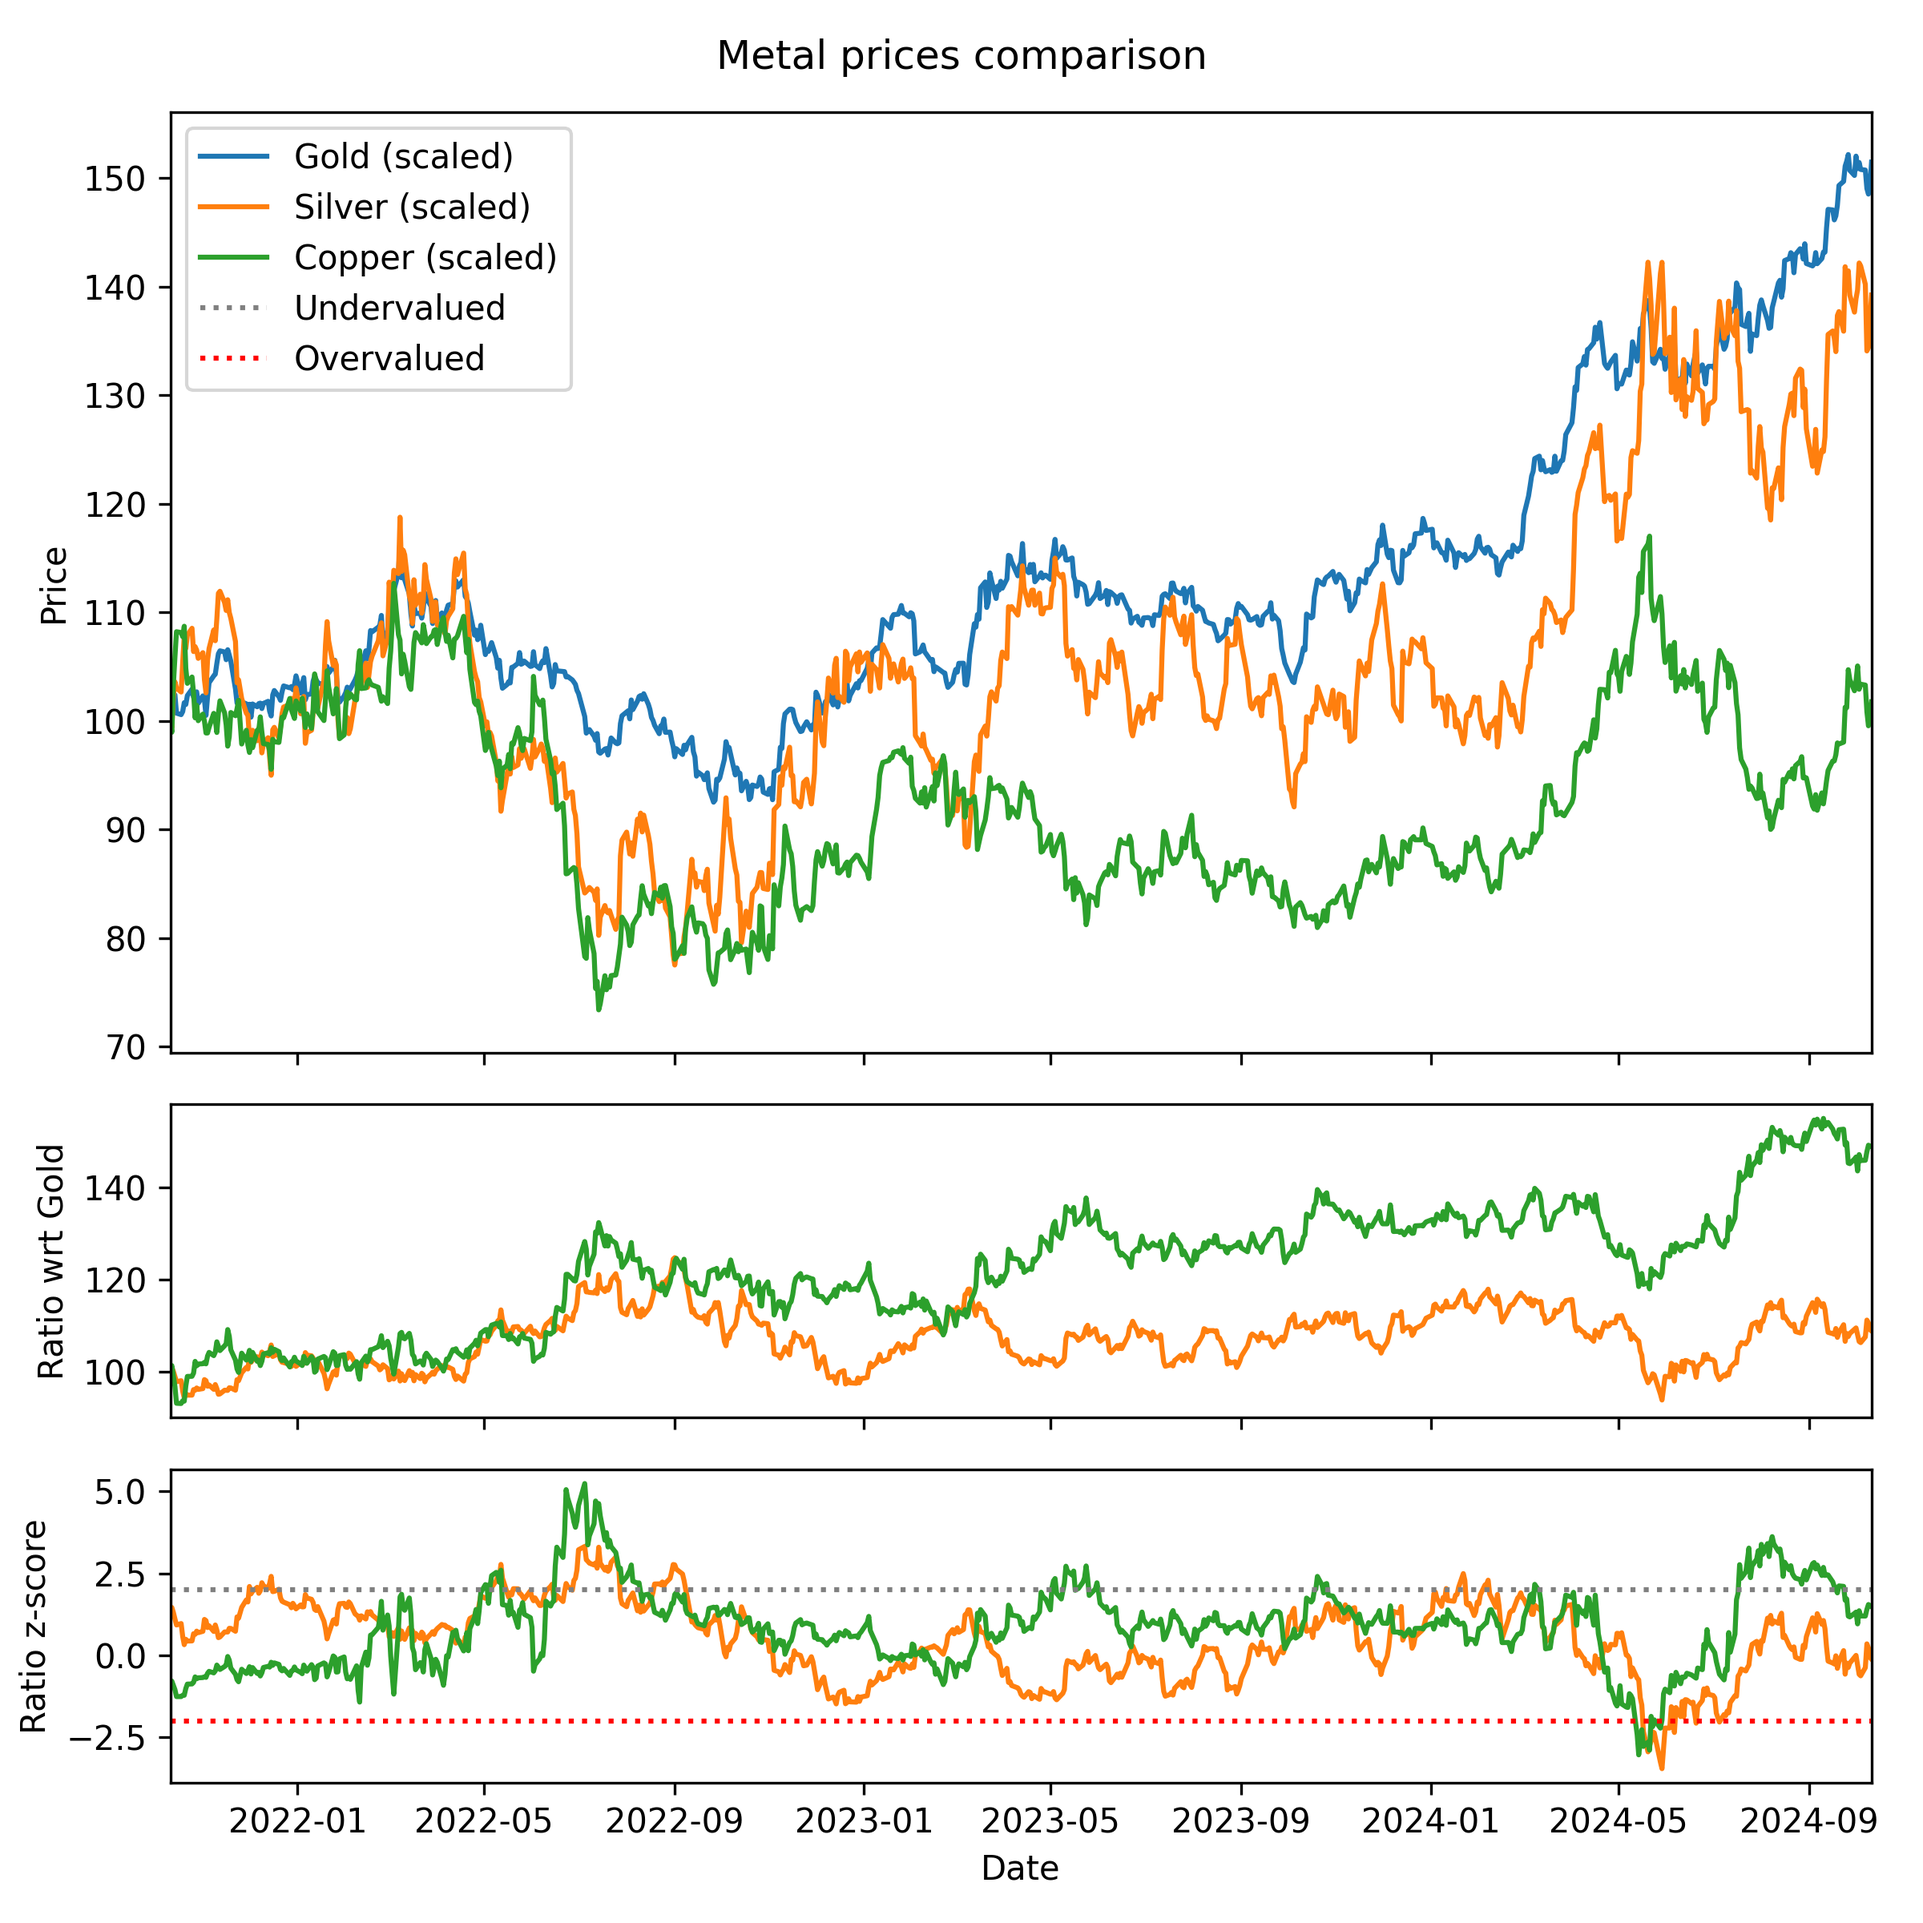
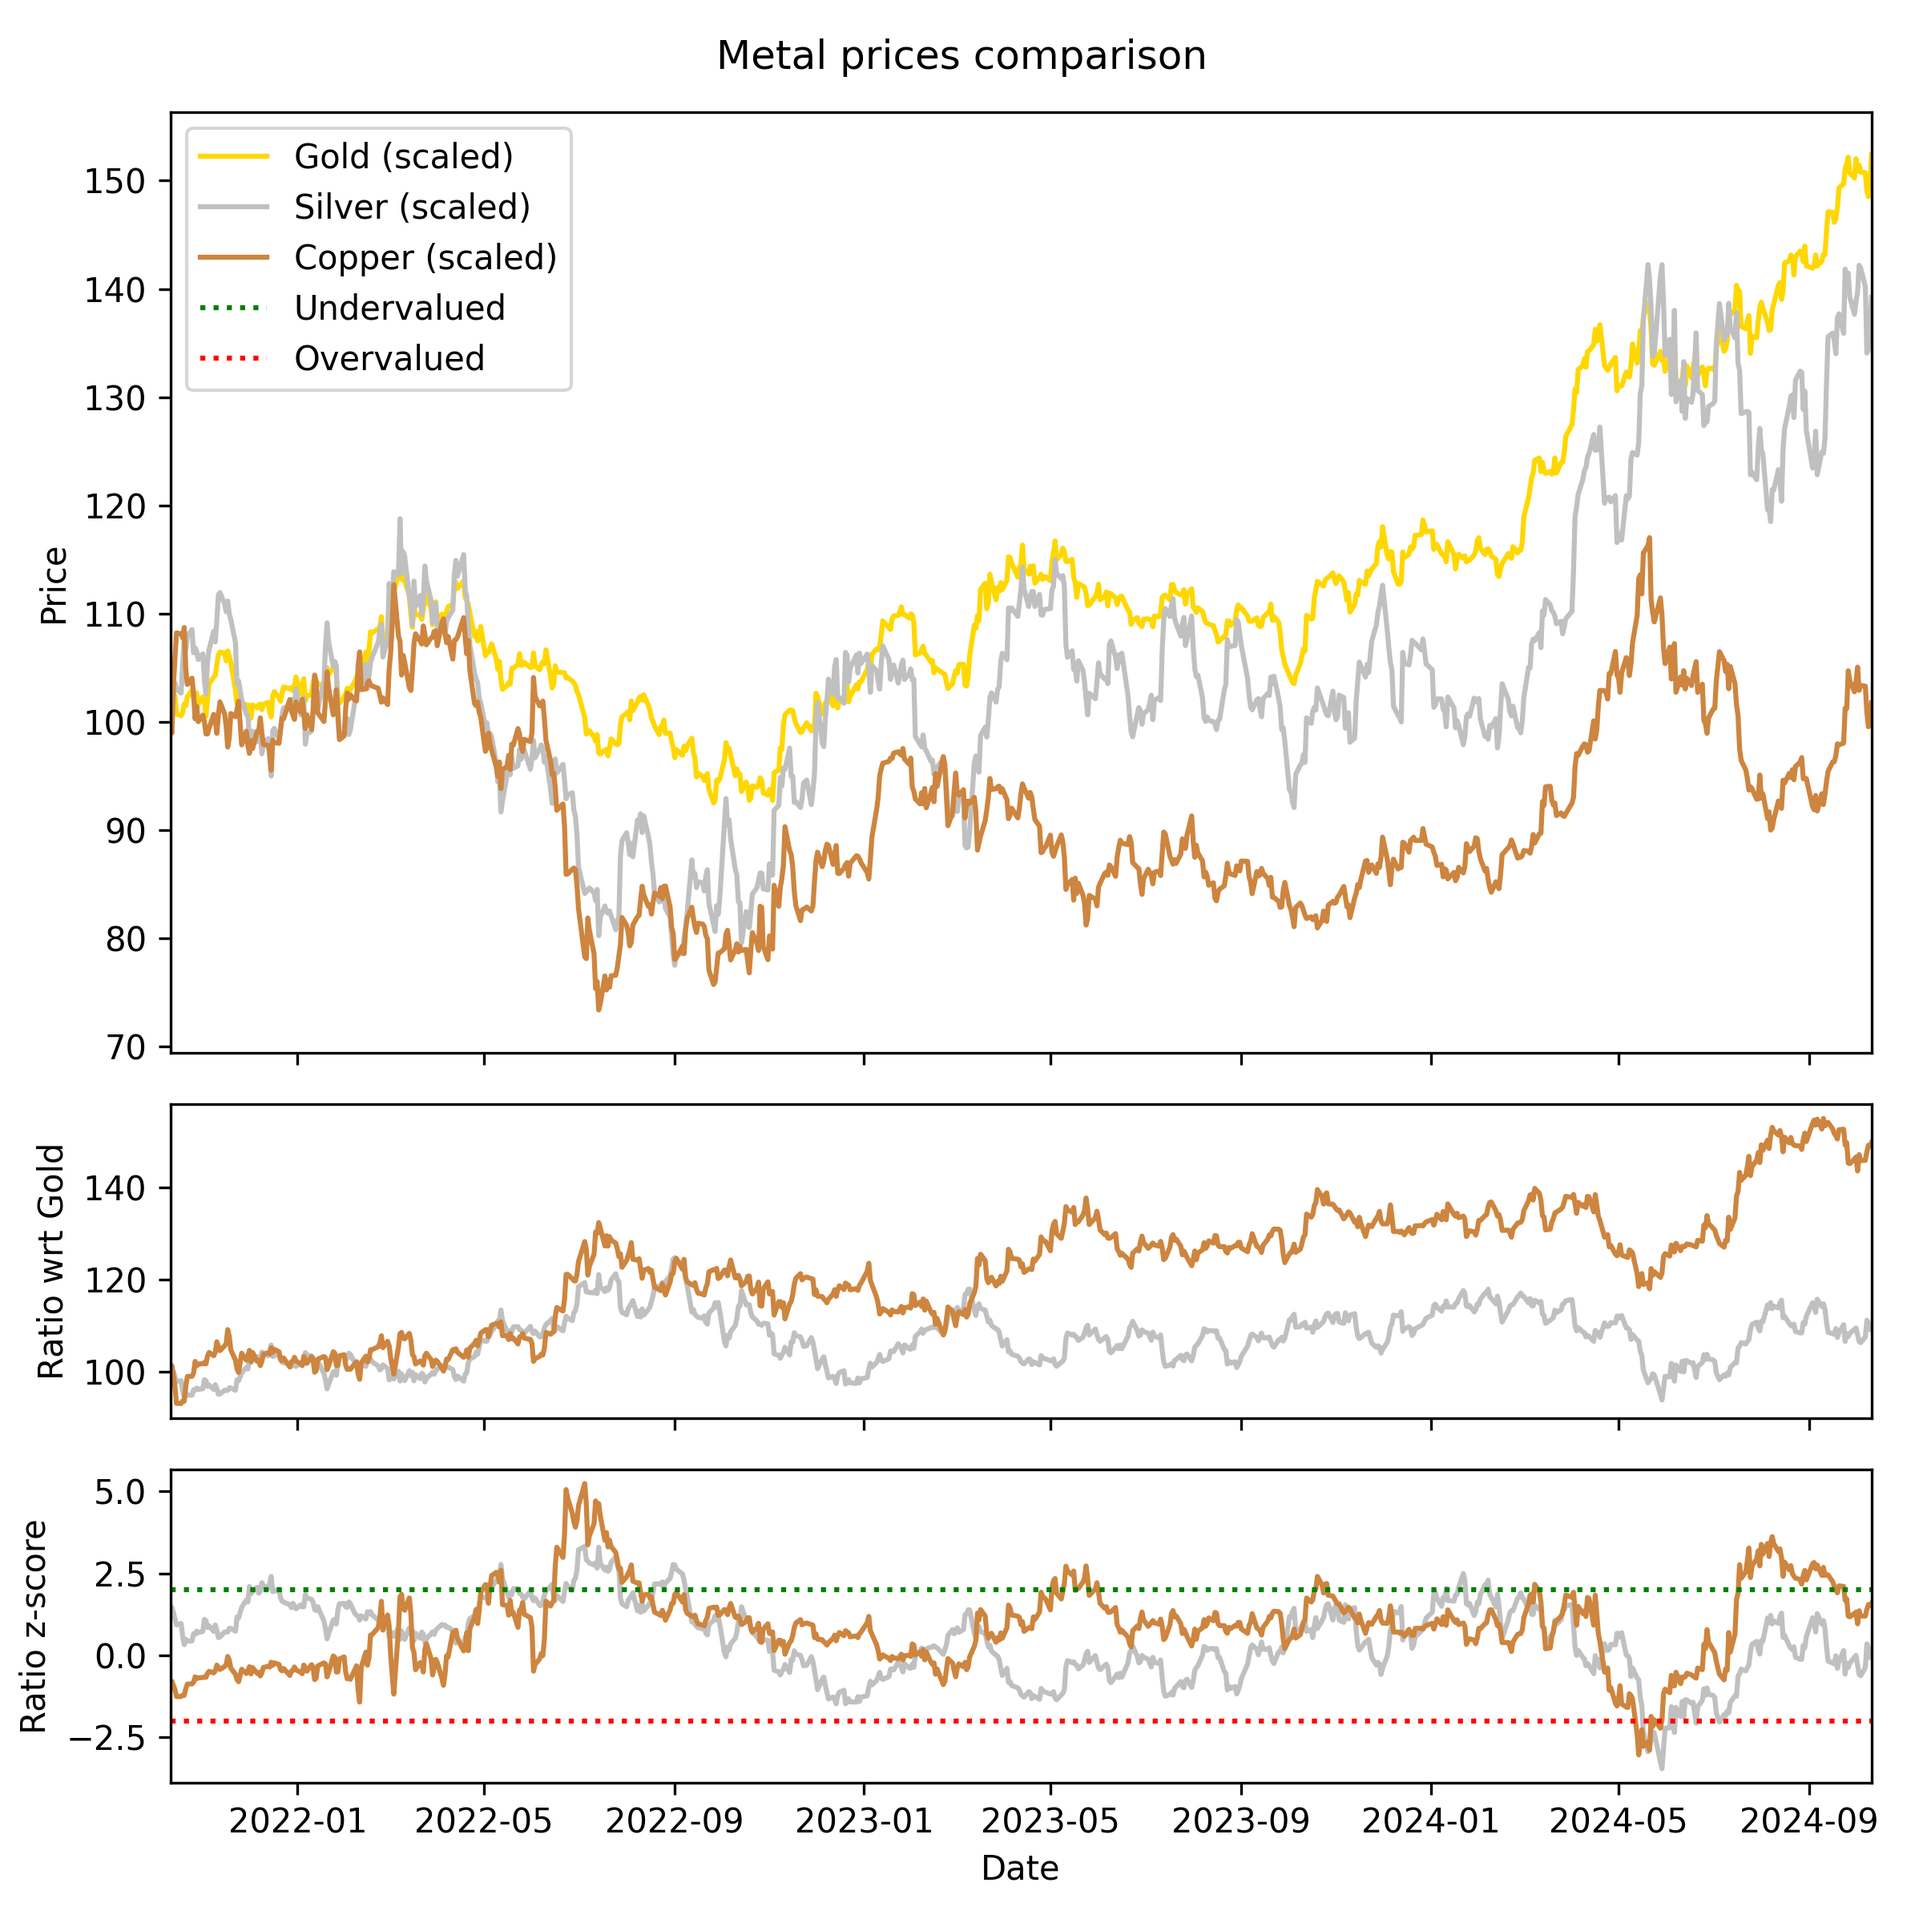
metal colour

diff --git a/Program/test_stock.py b/Program/test_stock.py
@@ -54,9 +54,9 @@ if compare_metal:
     close_goldfirst = metal_df["Close (GC=F)"].iloc[0]
     close_silverfirst = metal_df["Close (SI=F)"].iloc[0]
     close_copperfirst = metal_df["Close (HG=F)"].iloc[0]
-    ax1.plot(100 / close_goldfirst * metal_df["Close (GC=F)"], label="Gold (scaled)")
-    ax1.plot(100 / close_silverfirst * metal_df["Close (SI=F)"], label="Silver (scaled)")
-    ax1.plot(100 / close_copperfirst * metal_df["Close (HG=F)"], label="Copper (scaled)")
+    ax1.plot(100 / close_goldfirst * metal_df["Close (GC=F)"], label="Gold (scaled)", color="gold")
+    ax1.plot(100 / close_silverfirst * metal_df["Close (SI=F)"], label="Silver (scaled)", color="silver")
+    ax1.plot(100 / close_copperfirst * metal_df["Close (HG=F)"], label="Copper (scaled)", color="peru")
 
     # Set the label of the first subplot
     ax1.set_ylabel("Price")
@@ -67,16 +67,16 @@ if compare_metal:
     # Plot the ratios on the second subplot
     goldsilver_ratio_first = metal_df["Gold/Silver Ratio"].iloc[0]
     goldcopper_ratio_first = metal_df["Gold/Copper Ratio"].iloc[0]
-    ax2.plot(100 / goldsilver_ratio_first * metal_df["Gold/Silver Ratio"], color=colors[1])
-    ax2.plot(100 / goldcopper_ratio_first * metal_df["Gold/Copper Ratio"], color=colors[2])
+    ax2.plot(100 / goldsilver_ratio_first * metal_df["Gold/Silver Ratio"], color="silver")
+    ax2.plot(100 / goldcopper_ratio_first * metal_df["Gold/Copper Ratio"], color="peru")
 
     # Set the y label of the second subplot
     ax2.set_ylabel("Ratio wrt Gold")
 
     # Plot the ratios z-score on the third subplot
-    ax3.plot(metal_df["Gold/Silver Ratio Z-Score"], color=colors[1])
-    ax3.plot(metal_df["Gold/Copper Ratio Z-Score"], color=colors[2])
-    ax3.axhline(y=2, linestyle="dotted", label="Undervalued", color="gray")
+    ax3.plot(metal_df["Gold/Silver Ratio Z-Score"], color="silver")
+    ax3.plot(metal_df["Gold/Copper Ratio Z-Score"], color="peru")
+    ax3.axhline(y=2, linestyle="dotted", label="Undervalued", color="green")
     ax3.axhline(y=-2, linestyle="dotted", label="Overvalued", color="red")
 
     # Set the y label of the second subplot
